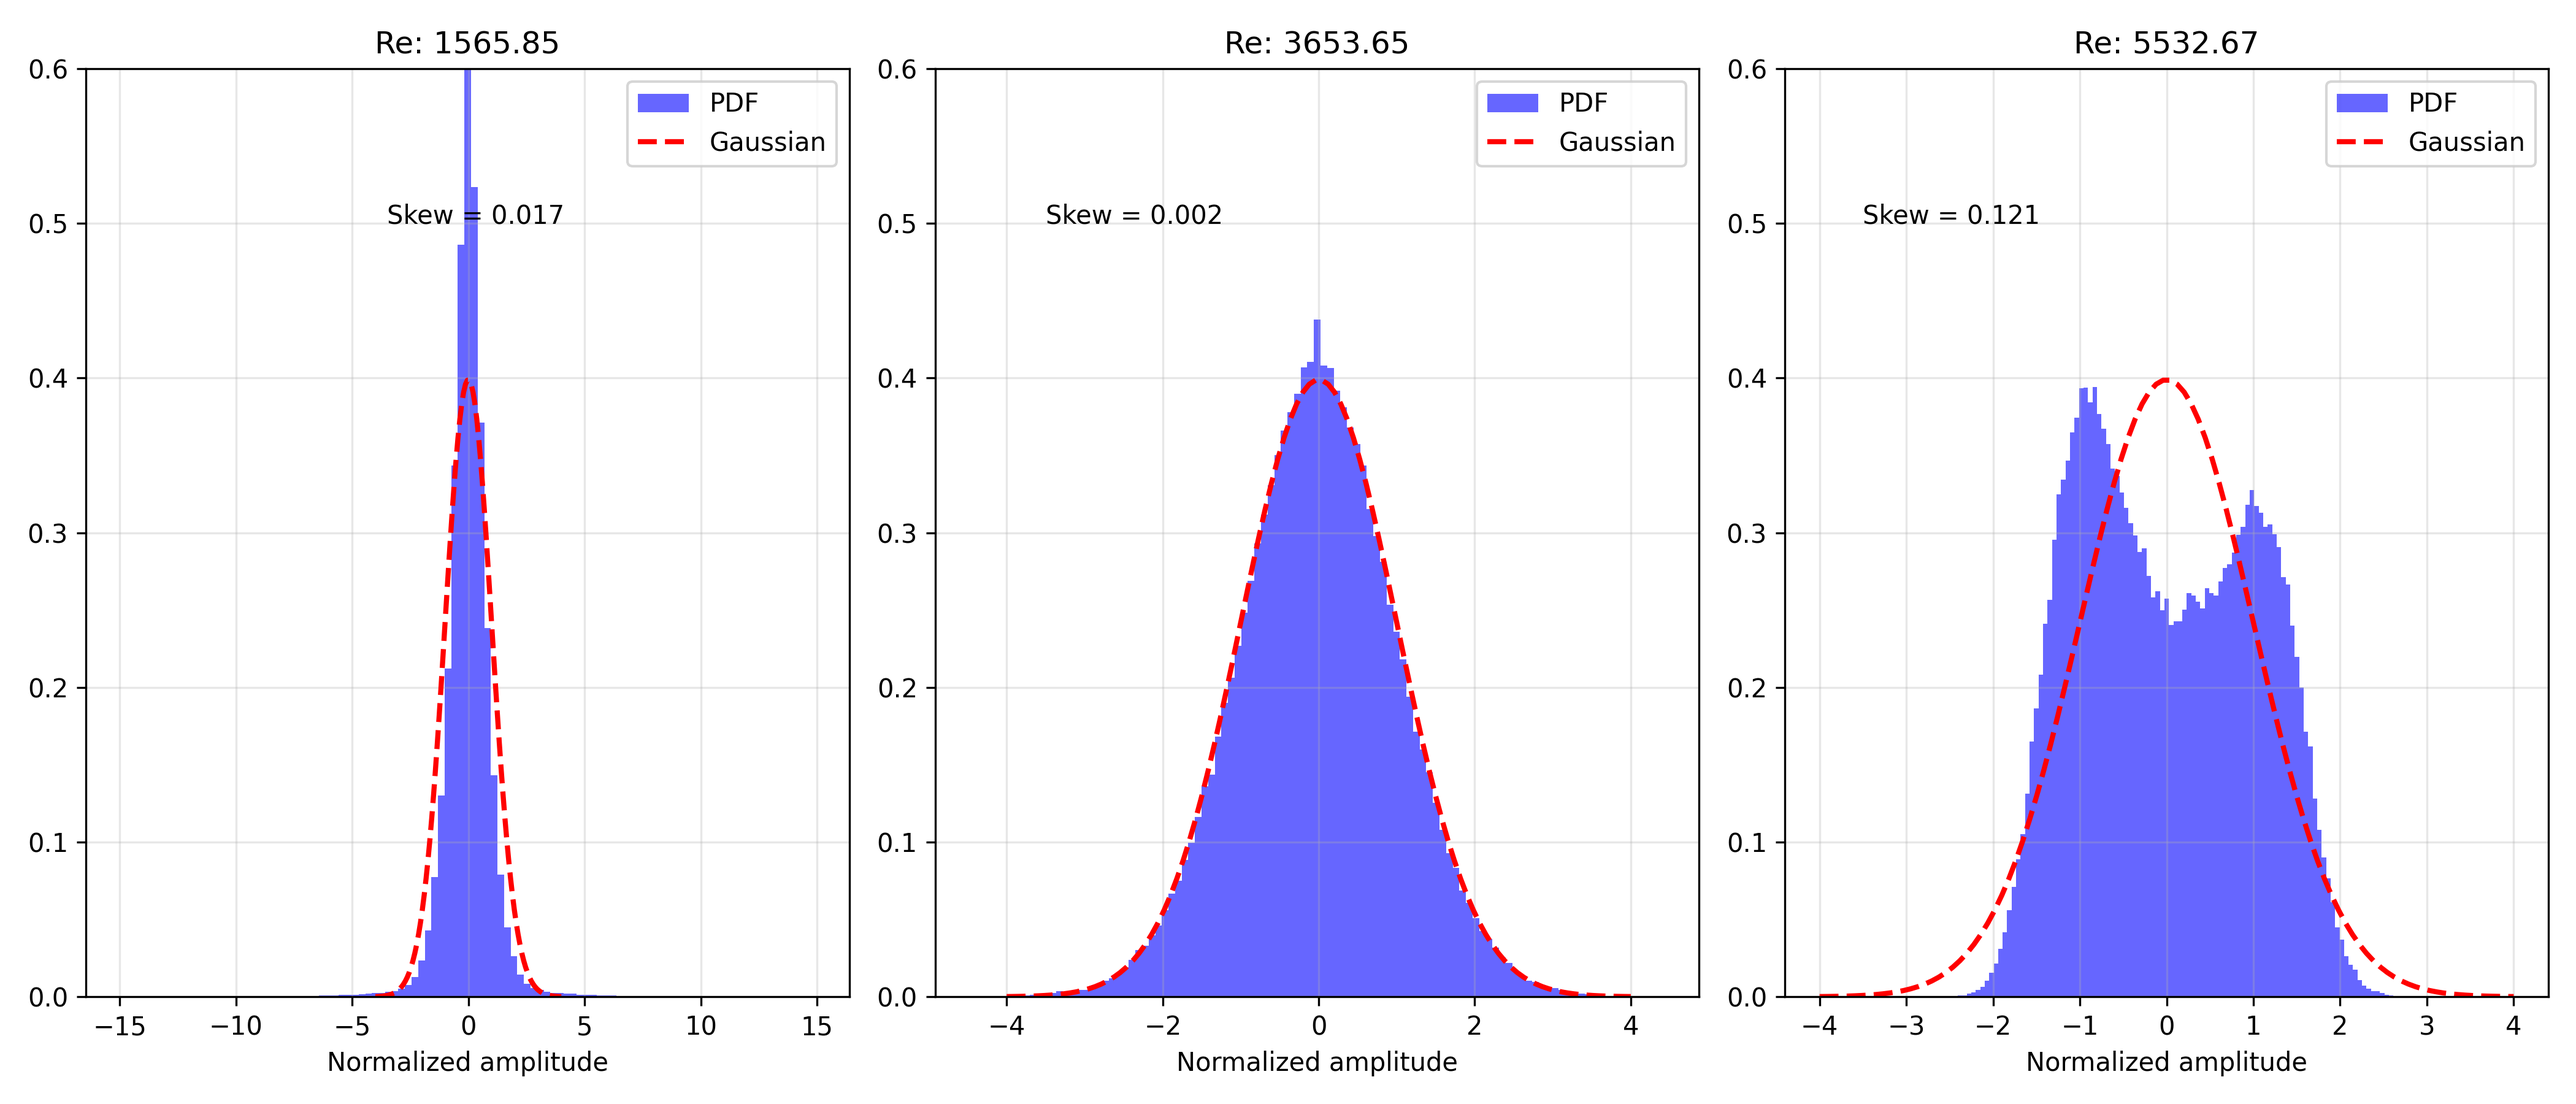
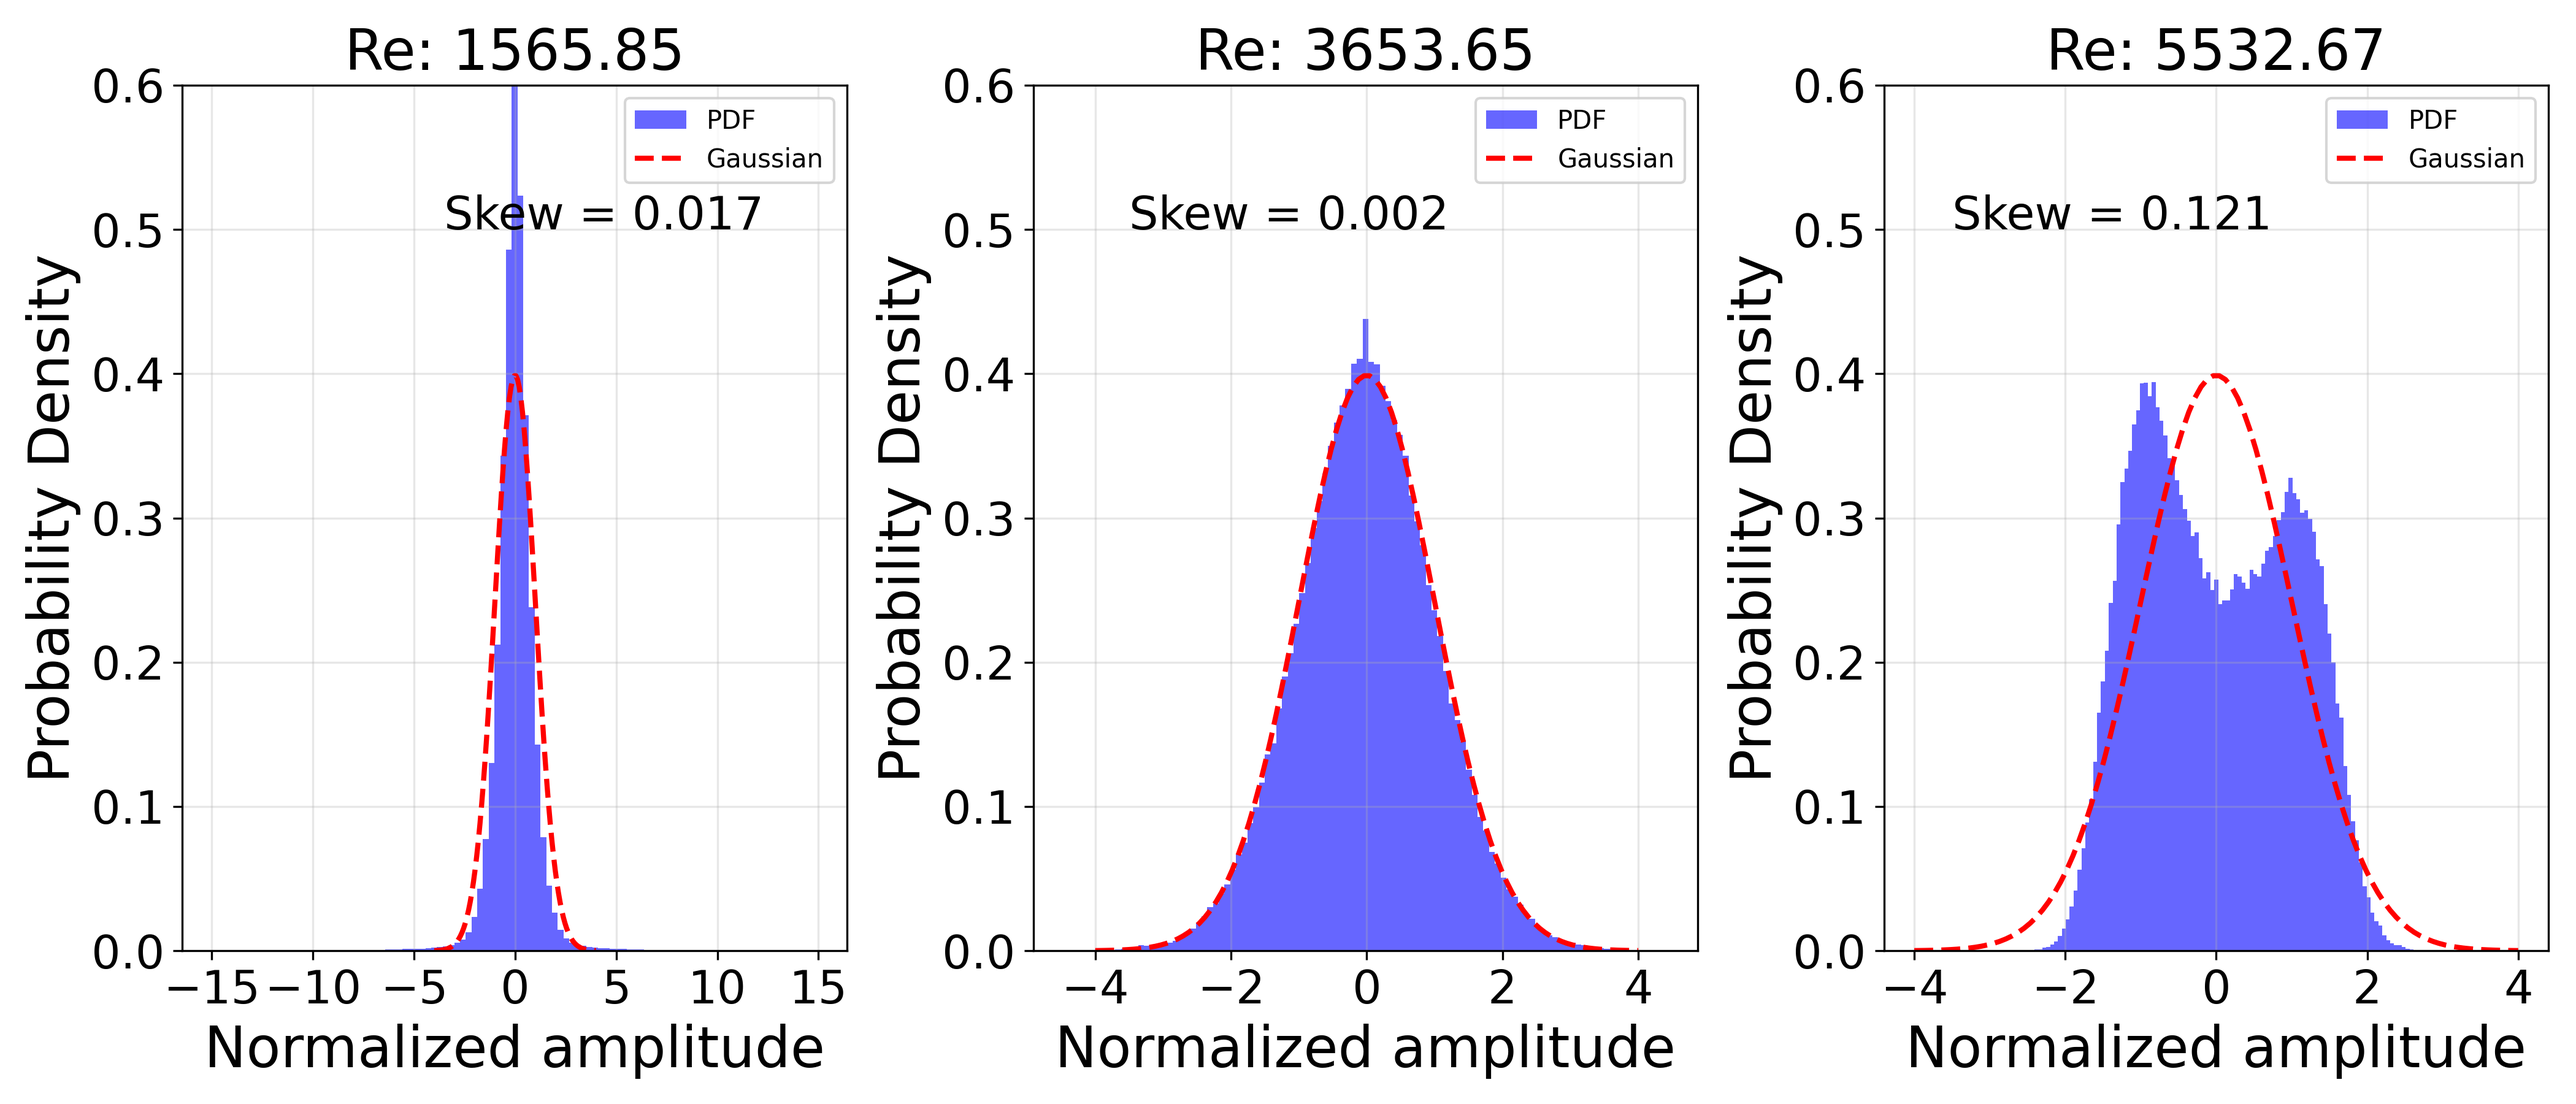
Increased font size; line format; calculation methods

diff --git a/LBO/Re.py b/LBO/Re.py
@@ -1,0 +1,94 @@
+"""
+Reynolds Number Compilation Script
+This script compiles all Reynolds numbers from the paper figures across LBO and TAI folders.
+
+References:
+- TAI/Time_series_figure_8.py
+- TAI/Autocorrelation_Limit_cycle_figure_12.py
+- TAI/Cumulative_Energy_Distribution.py
+- TAI/Limit_cycle_Oscillation_Figure_13.py
+"""
+
+# ============================================================================
+# TAI Reynolds Numbers (from various figures)
+# ============================================================================
+
+print("=" * 70)
+print("REYNOLDS NUMBERS COMPILATION")
+print("=" * 70)
+
+# From Time_series_figure_8.py
+print("\n[TAI Time Series - Figure 8]")
+re_time_series = {15: 1565.85, 40: 4175.60, 53: 5532.67}
+for file_num, re_val in re_time_series.items():
+    print(f"  File {file_num}: Re = {re_val:.2f}")
+
+# From Autocorrelation_Limit_cycle_figure_12.py
+print("\n[TAI Autocorrelation - Figure 12]")
+re_autocorr = {15: 1565.85, 40: 4175.60, 53: 5532.67}
+for file_num, re_val in re_autocorr.items():
+    print(f"  File {file_num}: Re = {re_val:.2f}")
+
+# From Cumulative_Energy_Distribution.py
+print("\n[TAI Cumulative Energy Distribution]")
+re_cum_energy = {15: 1565.85, 45: 4697.55, 53: 5532.67}
+for file_num, re_val in re_cum_energy.items():
+    print(f"  File {file_num}: Re = {re_val:.2f}")
+
+# From Limit_cycle_Oscillation_Figure_13.py
+print("\n[TAI Limit Cycle Oscillation - Figure 13]")
+re_limit_cycle = {15: 1565.85, 35: 3653.65, 53: 5532.67}
+for file_num, re_val in re_limit_cycle.items():
+    print(f"  File {file_num}: Re = {re_val:.2f}")
+
+# ============================================================================
+# Summary: Unique Reynolds Numbers
+# ============================================================================
+
+print("\n" + "=" * 70)
+print("UNIQUE REYNOLDS NUMBERS ACROSS ALL FIGURES")
+print("=" * 70)
+
+# Collect all unique Reynolds numbers
+all_re_values = set()
+re_file_mapping = {}
+
+for file_num, re_val in re_time_series.items():
+    all_re_values.add(re_val)
+    if re_val not in re_file_mapping:
+        re_file_mapping[re_val] = []
+    re_file_mapping[re_val].append(file_num)
+
+for file_num, re_val in re_cum_energy.items():
+    all_re_values.add(re_val)
+    if re_val not in re_file_mapping:
+        re_file_mapping[re_val] = []
+    if file_num not in re_file_mapping[re_val]:
+        re_file_mapping[re_val].append(file_num)
+
+for file_num, re_val in re_limit_cycle.items():
+    all_re_values.add(re_val)
+    if re_val not in re_file_mapping:
+        re_file_mapping[re_val] = []
+    if file_num not in re_file_mapping[re_val]:
+        re_file_mapping[re_val].append(file_num)
+
+# Sort and print
+sorted_re = sorted(all_re_values)
+for i, re_val in enumerate(sorted_re, 1):
+    file_nums = sorted(set(re_file_mapping[re_val]))
+    print(f"{i}. Re = {re_val:.2f}  (Files: {file_nums})")
+
+print("\n" + "=" * 70)
+print(f"Total Unique Reynolds Numbers: {len(sorted_re)}")
+print("=" * 70)
+
+# ============================================================================
+# Reynolds Number Range Analysis
+# ============================================================================
+
+print("\nREYNOLDS NUMBER RANGE ANALYSIS:")
+print(f"  Minimum Re: {min(sorted_re):.2f}")
+print(f"  Maximum Re: {max(sorted_re):.2f}")
+print(f"  Range: {max(sorted_re) - min(sorted_re):.2f}")
+print(f"  Average Re: {sum(sorted_re) / len(sorted_re):.2f}")

diff --git a/TAI/Re.py b/TAI/Re.py
@@ -1,0 +1,94 @@
+"""
+Reynolds Number Compilation Script
+This script compiles all Reynolds numbers from the paper figures across LBO and TAI folders.
+
+References:
+- TAI/Time_series_figure_8.py
+- TAI/Autocorrelation_Limit_cycle_figure_12.py
+- TAI/Cumulative_Energy_Distribution.py
+- TAI/Limit_cycle_Oscillation_Figure_13.py
+"""
+
+# ============================================================================
+# TAI Reynolds Numbers (from various figures)
+# ============================================================================
+
+print("=" * 70)
+print("REYNOLDS NUMBERS COMPILATION")
+print("=" * 70)
+
+# From Time_series_figure_8.py
+print("\n[TAI Time Series - Figure 8]")
+re_time_series = {15: 1565.85, 40: 4175.60, 53: 5532.67}
+for file_num, re_val in re_time_series.items():
+    print(f"  File {file_num}: Re = {re_val:.2f}")
+
+# From Autocorrelation_Limit_cycle_figure_12.py
+print("\n[TAI Autocorrelation - Figure 12]")
+re_autocorr = {15: 1565.85, 40: 4175.60, 53: 5532.67}
+for file_num, re_val in re_autocorr.items():
+    print(f"  File {file_num}: Re = {re_val:.2f}")
+
+# From Cumulative_Energy_Distribution.py
+print("\n[TAI Cumulative Energy Distribution]")
+re_cum_energy = {15: 1565.85, 45: 4697.55, 53: 5532.67}
+for file_num, re_val in re_cum_energy.items():
+    print(f"  File {file_num}: Re = {re_val:.2f}")
+
+# From Limit_cycle_Oscillation_Figure_13.py
+print("\n[TAI Limit Cycle Oscillation - Figure 13]")
+re_limit_cycle = {15: 1565.85, 35: 3653.65, 53: 5532.67}
+for file_num, re_val in re_limit_cycle.items():
+    print(f"  File {file_num}: Re = {re_val:.2f}")
+
+# ============================================================================
+# Summary: Unique Reynolds Numbers
+# ============================================================================
+
+print("\n" + "=" * 70)
+print("UNIQUE REYNOLDS NUMBERS ACROSS ALL FIGURES")
+print("=" * 70)
+
+# Collect all unique Reynolds numbers
+all_re_values = set()
+re_file_mapping = {}
+
+for file_num, re_val in re_time_series.items():
+    all_re_values.add(re_val)
+    if re_val not in re_file_mapping:
+        re_file_mapping[re_val] = []
+    re_file_mapping[re_val].append(file_num)
+
+for file_num, re_val in re_cum_energy.items():
+    all_re_values.add(re_val)
+    if re_val not in re_file_mapping:
+        re_file_mapping[re_val] = []
+    if file_num not in re_file_mapping[re_val]:
+        re_file_mapping[re_val].append(file_num)
+
+for file_num, re_val in re_limit_cycle.items():
+    all_re_values.add(re_val)
+    if re_val not in re_file_mapping:
+        re_file_mapping[re_val] = []
+    if file_num not in re_file_mapping[re_val]:
+        re_file_mapping[re_val].append(file_num)
+
+# Sort and print
+sorted_re = sorted(all_re_values)
+for i, re_val in enumerate(sorted_re, 1):
+    file_nums = sorted(set(re_file_mapping[re_val]))
+    print(f"{i}. Re = {re_val:.2f}  (Files: {file_nums})")
+
+print("\n" + "=" * 70)
+print(f"Total Unique Reynolds Numbers: {len(sorted_re)}")
+print("=" * 70)
+
+# ============================================================================
+# Reynolds Number Range Analysis
+# ============================================================================
+
+print("\nREYNOLDS NUMBER RANGE ANALYSIS:")
+print(f"  Minimum Re: {min(sorted_re):.2f}")
+print(f"  Maximum Re: {max(sorted_re):.2f}")
+print(f"  Range: {max(sorted_re) - min(sorted_re):.2f}")
+print(f"  Average Re: {sum(sorted_re) / len(sorted_re):.2f}")

diff --git a/TAI/Cumulative_Energy_Distribution.py b/TAI/Cumulative_Energy_Distribution.py
@@ -22,7 +22,10 @@ re_map = {
 
 plt.figure(figsize=(10, 6))
 
-for file_num, re_val in re_map.items():
+# Define line styles
+linestyles = ['-', '--', ':']
+
+for idx, (file_num, re_val) in enumerate(re_map.items()):
 
     file_name = os.path.join(folder_path, f"{file_num}.xlsx")
     
@@ -49,8 +52,8 @@ for file_num, re_val in re_map.items():
     freq = freq[mask]
     power = power[mask]
 
-    # limit to 0–260 Hz
-    mask = freq <= 100
+    # limit to 200–260 Hz
+    mask = (freq >= 200) & (freq <= 260)
     freq = freq[mask]
     power = power[mask]
 
@@ -58,13 +61,16 @@ for file_num, re_val in re_map.items():
     cum_energy = np.cumsum(power)
     cum_energy = cum_energy / cum_energy[-1]
 
-    plt.plot(freq, cum_energy, label=f"Re = {re_val:.0f}")
+    plt.plot(freq, cum_energy, linestyle=linestyles[idx], linewidth=2, label=f"Re = {re_val:.0f}")
 
-plt.xlabel("Frequency (Hz)")
-plt.ylabel("Cumulative Energy")
+plt.xlabel("Frequency (Hz)", fontsize=22)
+plt.ylabel("Cumulative Energy Distribution", fontsize=22)
+plt.xlim(200, 260)
+plt.xticks(fontsize=22)
+plt.yticks(fontsize=22)
 
 plt.grid(True, alpha=0.3)
-plt.legend()
+plt.legend(fontsize=22)
 
 plt.tight_layout()
 plt.savefig("Figure_TAI_Cumulative_Energy.png", dpi=300)

diff --git a/TAI/NRMS_TAI.py b/TAI/NRMS_TAI.py
@@ -19,15 +19,15 @@ folder_path = "TAI"
 
 # mapping files to Reynolds number 
 re_map = {
-    15: 1565.85/4175, 
-    20: 2087.80/4175, 
-    25: 2609.75/4175, 
-    30: 3131.70/4175, 
-    35: 3653.65/4175, 
-    40: 4175.60/4175, 
-    45: 4697.55/4175, 
-    50: 5219.50/4175, 
-    53: 5532.67/4175
+    15: 1565.85, 
+    20: 2087.80, 
+    25: 2609.75, 
+    30: 3131.70, 
+    35: 3653.65, 
+    40: 4175.60, 
+    45: 4697.55, 
+    50: 5219.50, 
+    53: 5532.67 
 }
 
 nrms_values = []
@@ -54,8 +54,15 @@ for file_num, re_val in re_map.items():
 plt.figure(figsize=(8, 6))
 plt.plot(re_values, nrms_values, marker='o')
 
-plt.xlabel("Reynolds Number (Re)")
-plt.ylabel("NRMS")
+# Add threshold lines
+plt.axvline(x=2617, color='red', linestyle='--', linewidth=2)
+plt.axhline(y=1.3316, color='red', linestyle='--', linewidth=2)
+plt.text(2640, 1.3355, "threshold = 2617", fontsize=18, color='black')
+
+plt.xlabel("Reynolds Number (Re)", fontsize=20)
+plt.ylabel("NRMS", fontsize=20)
+plt.xticks(fontsize=20)
+plt.yticks(fontsize=20)
 
 plt.grid(True, alpha=0.3)
 

diff --git a/TAI/Autocorrelation_Limit_cycle_figure_12.py b/TAI/Autocorrelation_Limit_cycle_figure_12.py
@@ -23,12 +23,13 @@ re_map = {
 
 plt.figure(figsize=(10, 6))
 
-# sampling frequency (as used in experiment)
+# Define line styles
+linestyles = ['-', '--', ':']
 fs = 44100
 samples_needed = int(2 * fs)  # 2 seconds
 max_lag = int(0.02 * fs)  # 20 ms
 
-for file_num, re_val in re_map.items():
+for idx, (file_num, re_val) in enumerate(re_map.items()):
 
     file_name = os.path.join(folder_path, f"{file_num}.xlsx")
     
@@ -51,13 +52,15 @@ for file_num, re_val in re_map.items():
 
     lag = (np.arange(max_lag) / fs) * 1000
 
-    plt.plot(lag, rxx, label=f"Re = {re_val:.0f}")
+    plt.plot(lag, rxx, linestyle=linestyles[idx], linewidth=2, label=f"Re = {re_val:.0f}")
 
-plt.xlabel("Lag Time (ms)")
-plt.ylabel("Autocorrelation Function")
+plt.xlabel("Lag Time (ms)", fontsize=20)
+plt.ylabel("Autocorrelation Function", fontsize=20)
+plt.xticks(fontsize=20)
+plt.yticks(fontsize=20)
 
 plt.grid(True, alpha=0.3)
-plt.legend()
+plt.legend(fontsize=20)
 
 plt.tight_layout()
 plt.savefig("Figure_TAI_Autocorrelation_original_1.png", dpi=300)

diff --git a/LBO/Normalized Cumulative_Duration_of_LBO_Precursor_Events_figure_7_3.py b/LBO/Normalized Cumulative_Duration_of_LBO_Precursor_Events_figure_7_3.py
@@ -58,8 +58,18 @@ for index, row in df.iterrows():
 plt.figure(figsize=(8, 6))
 plt.plot(df[x_axis_col], theta_values, marker='^', color='tab:red', label='Precursor Duration (Θ)')
 
-plt.xlabel("($\\Phi/\\Phi_{{LBO}}$)", fontsize=22)
+# draw threshold lines
+plt.axvline(x=1.0592, linestyle='--', color='black', linewidth=1.5)
+plt.axhline(y=0.0251, linestyle='--', color='black', linewidth=1.5)
+
+# add text at intersection point
+plt.text(1.065, 0.035, 'threshold = 1.0592', fontsize=12, verticalalignment='bottom', horizontalalignment='left')
+
+plt.xlabel("$\\Phi/\\Phi_{{LBO}}$", fontsize=22)
 plt.ylabel('Θ', fontsize=22)
+
+plt.tick_params(axis='both', which='major', labelsize=20)
+
 plt.grid(True, alpha=0.3)
 plt.savefig("Figure_7_3_LBO_Theta_Final_fonted.png", dpi=300)
 plt.show()

diff --git a/TAI/Limit_cycle_Oscillation_Figure_13.py b/TAI/Limit_cycle_Oscillation_Figure_13.py
@@ -69,14 +69,17 @@ for i, file_num in enumerate(tgt_files):
     plt.plot(x_axis, norm.pdf(x_axis, 0, 1), 'r--', linewidth=2, label='Gaussian')
 
     # formattting
-    plt.title(f"Re: {re_map[file_num]}")
-    plt.xlabel("Normalized amplitude")
+    plt.title(f"Re: {re_map[file_num]}", fontsize=22)
+    plt.xlabel("Normalized amplitude", fontsize=22)
+    plt.ylabel("Probability Density", fontsize=22)
     plt.ylim(0, 0.6) # Lock y-axis so we can compare easily
+    plt.xticks(fontsize=18)
+    plt.yticks(fontsize=18)
 
     # annotate skewness value on the plot
-    plt.text(-3.5, 0.5, f"Skew = {skew_val:.3f}")
+    plt.text(-3.5, 0.5, f"Skew = {skew_val:.3f}", fontsize=18)
 
-    plt.legend()
+    plt.legend(fontsize=10)
     plt.grid(True, alpha=0.3)
 
 # adjust spacing

diff --git a/TAI/Normalized_cumulative_distribution_figure_10.py b/TAI/Normalized_cumulative_distribution_figure_10.py
@@ -76,13 +76,18 @@ plt.figure(figsize=(8, 6))
 plt.plot(re_list, theta_values, marker='o', linestyle='-', color='tab:blue')
 
 # precursor threshold
-plt.axhline(y=0.16, linestyle='--', color='black')
+plt.axhline(y=0.201, linestyle='--', color='black')
 
 # onset of precursor activity
 plt.axvline(x=2200, linestyle='--', color='red')
 
-plt.xlabel("Reynolds Number (Re)")
-plt.ylabel("Normalized Cumulative Duration (Θ)")
+# Add threshold text at intersection
+plt.text(2230, 0.201, "threshold = 2200", fontsize=18, color='red')
+
+plt.xlabel("Reynolds Number (Re)", fontsize=22)
+plt.ylabel("Normalized Cumulative Duration (Θ)", fontsize=22)
+plt.xticks(fontsize=22)
+plt.yticks(fontsize=22)
 
 plt.grid(True, alpha=0.3)
 

diff --git a/LBO/NRMS_vs_Normalized_Equivalence_Ratio_figure_7_1.py b/LBO/NRMS_vs_Normalized_Equivalence_Ratio_figure_7_1.py
@@ -57,11 +57,13 @@ plt.figure(figsize=(8, 6))
 plt.plot(df[x_axis_col], nrms_values, marker='s', color='tab:blue', label='Experimental NRMS')
 
 # threshold line suggested by Prof
-plt.axhline(y=0.145, linestyle='--', color='black')
-plt.axvline(x=1.115, linestyle='--', color='red',)
+plt.axhline(y=0.1478, linestyle='--', color='black')
+plt.axvline(x=1.10, linestyle='--', color='red',)
 
-plt.xlabel("($\\Phi/\\Phi_{{LBO}}$)")
-plt.ylabel('NRMS')
+plt.xlabel("$\\Phi/\\Phi_{{LBO}}$", fontsize=22, style='italic')
+plt.ylabel('NRMS', fontsize=22)
+
+plt.tick_params(axis='both', which='major', labelsize=14    )
 
 plt.grid(True, alpha=0.3)
 
